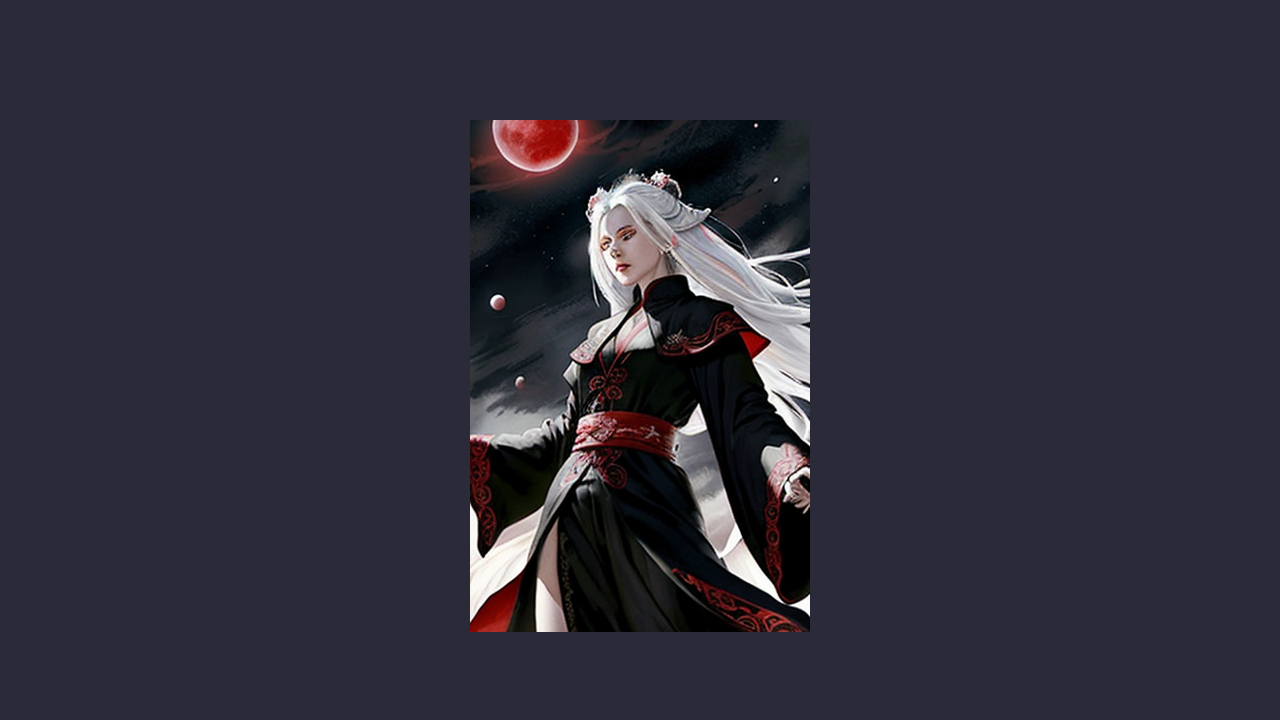
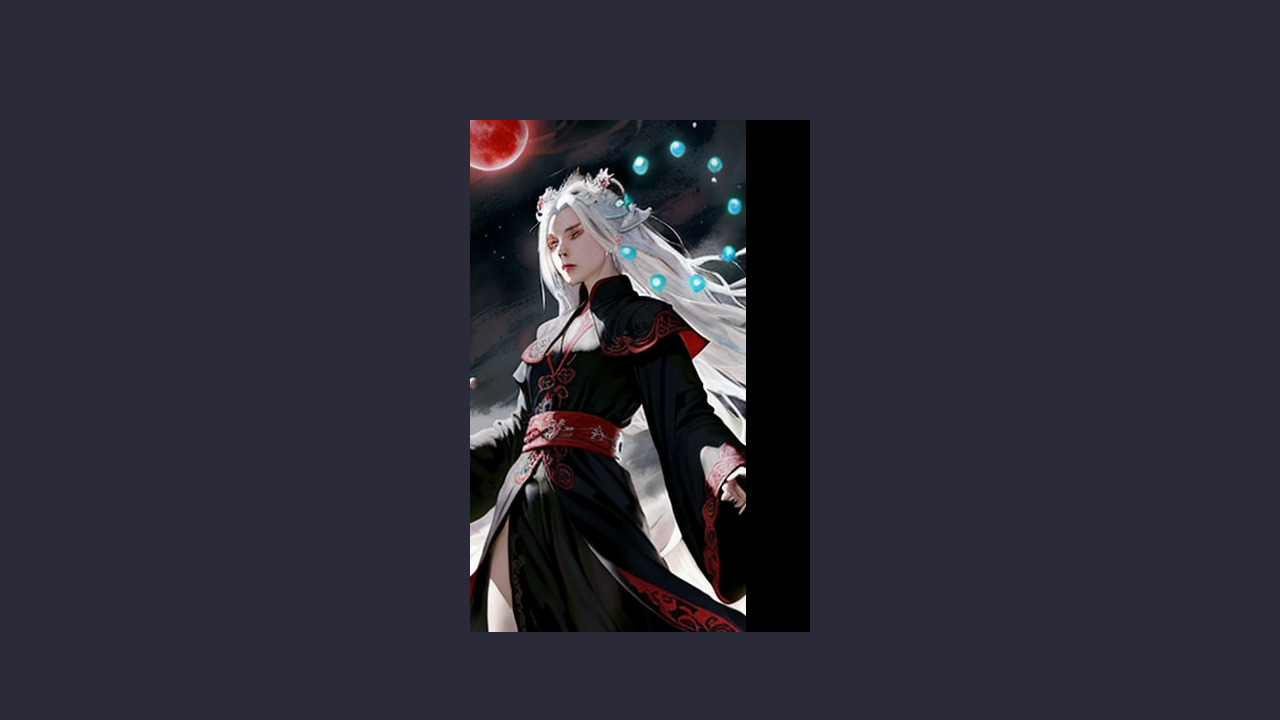
roster: re-bless golden from real captures; stale-shot guard
The post-certify harness ran with a relative job path — the runner
exited instantly and stale 4h-old shots/report were read as
verification, blessing a golden with the old card. Re-ran with the
absolute path: select_grid shows the nine-orb card (3.6% drift at the
card region), re-blessed.

golden_check now flags any shot older than jobs.json as stale
(pass:null) — a failed harness run can no longer pass silently on
prior captures. Ledger #72.

Generated with [Devin](https://devin.ai)

Changed region(s): [[0.3438, 0.1528, 0.6562, 0.8861]]

diff --git a/tools/golden_check.py b/tools/golden_check.py
@@ -76,11 +76,20 @@ def main(goal, write, max_changed, tol, only):
     d = _dupes(comp, fresh)
     if d:
         report["dupes"] = d
+    # a harness run that dies before writing shots leaves stale captures
+    # that diff "clean" against old goldens — compare against jobs.json
+    # (rewritten by every publish) so a failed run can never pass
+    jobs = os.path.join(ROOT, "pipeline", "composition", goal, "jobs.json")
+    jobs_t = os.path.getmtime(jobs) if os.path.exists(jobs) else 0
     worst = 0.0
     for name in names:
         gp, cp = os.path.join(gold, name), os.path.join(comp, name)
         if not os.path.exists(cp):
             report["shots"][name] = {"pass": None, "note": "no fresh shot"}
+            continue
+        if os.path.getmtime(cp) < jobs_t:
+            report["shots"][name] = {
+                "pass": None, "note": "stale shot (older than jobs.json)"}
             continue
         r = diff(cp, gp, tol)
         r["pass"] = r.get("changed", 1.0) <= max_changed

diff --git a/reports/BUG_LEDGER.md b/reports/BUG_LEDGER.md
@@ -96,3 +96,4 @@ Format: bug → where caught → fix applied → gate that owns it now.
 | 69 | Gesture/sub-surface pose details below generation fidelity: hand_seal reads as crown-adjust (2 rounds), cloud_ride lacks raised knee — i2i denoise floor limits restructuring and 384px can't carry finger/under-skirt semantics | component | 2 curation rounds on xx_immortal_f | guided i2i can't express finger-level or occluded-limb detail at sprite scale | C1 | WAIVED — poses certified "approximate" with flags; gesture-critical validation routes to hand_gesture pose files + 3D rig shots, not 2D sprites |
 | 70 | runner.gd parse error hangs the harness forever — script fails to load, Godot stays alive with nothing to quit; unsupervised invocations had no stall detection (var-gap := ternary inference was the trigger) | tooling | hung 136MB Godot process, no output 20min | --check-only not run before harness; manual launches lack the supervisor's stall-kill | run_goal | FIXED (this bug) + gate: run `--check-only` on runner.gd before any harness launch; supervisor stall-kill remains the safety net |
 | 71 | salute_sync expect keys (both_on_row, min_gap_px) declared but never evaluated — entry had no pass field, silently unverifiable | harness | action_shots report vs spec | simple action path only evaluated props_attached | A3 | FIXED — expect keys measured (row membership, cast-rect gap); unmeasurable → pass:null |
+| 72 | Harness run with relative job path exits instantly; stale report.json/shots then read as verification — roster golden blessed from 4h-old captures | tooling | shot/report mtimes vs jobs.json | runner requires abs path; caller passed relative; stale outputs indistinguishable from fresh | golden_check | FIXED — golden_check now flags shots older than jobs.json (pass:null, "stale shot"); callers must pass abs job path |
